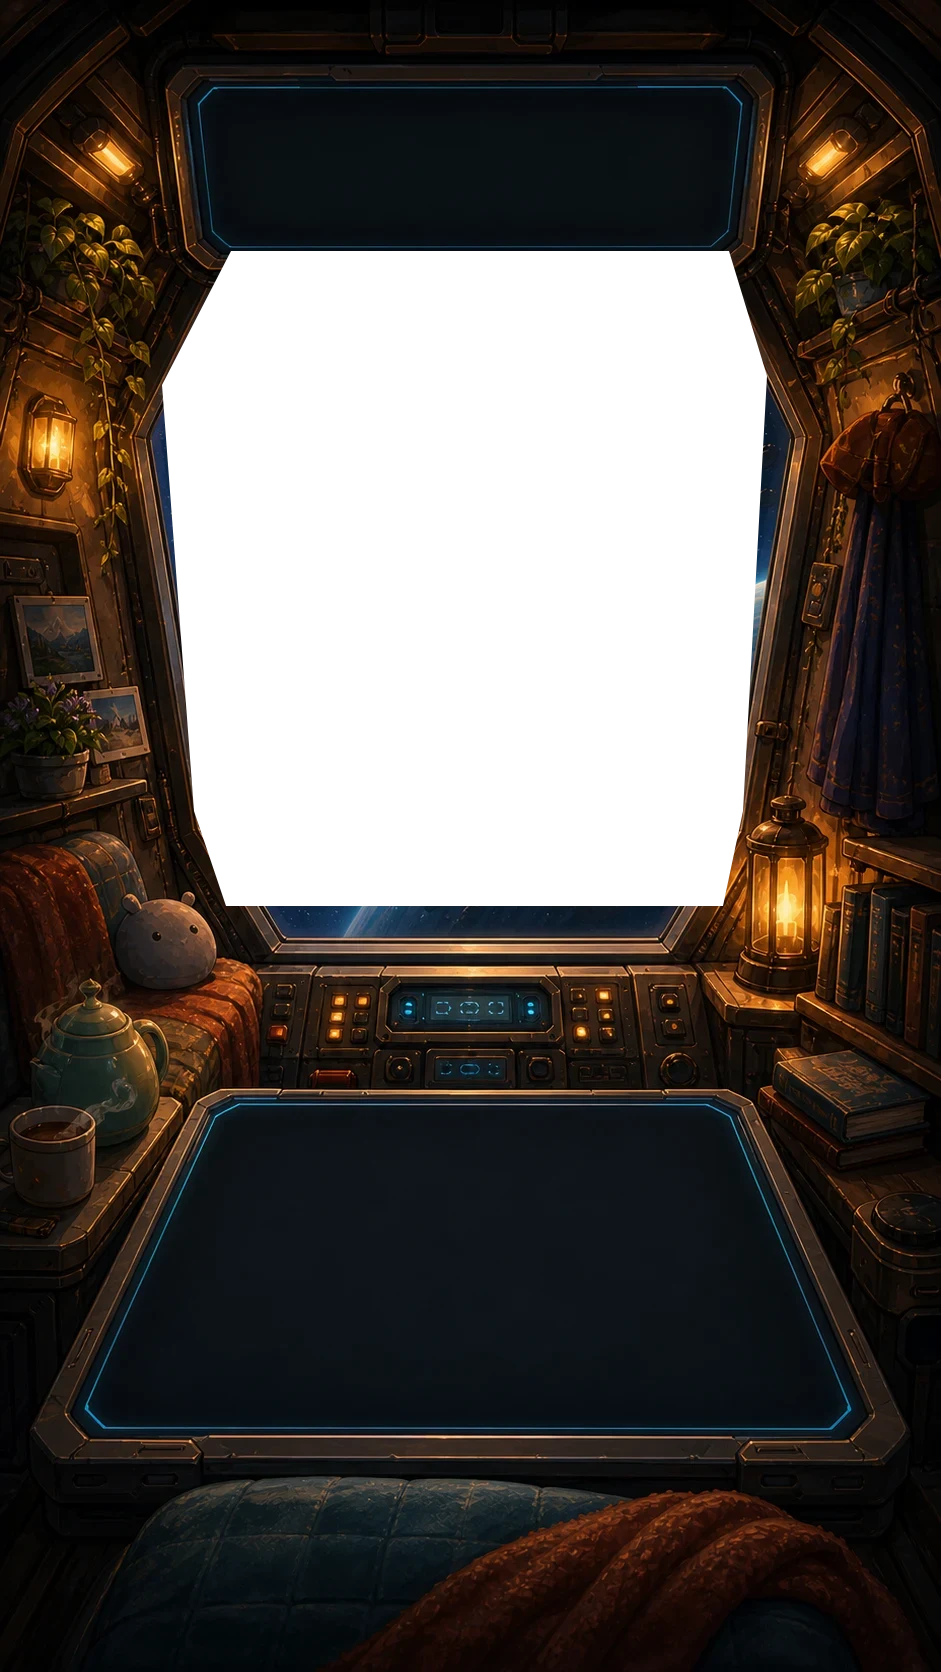
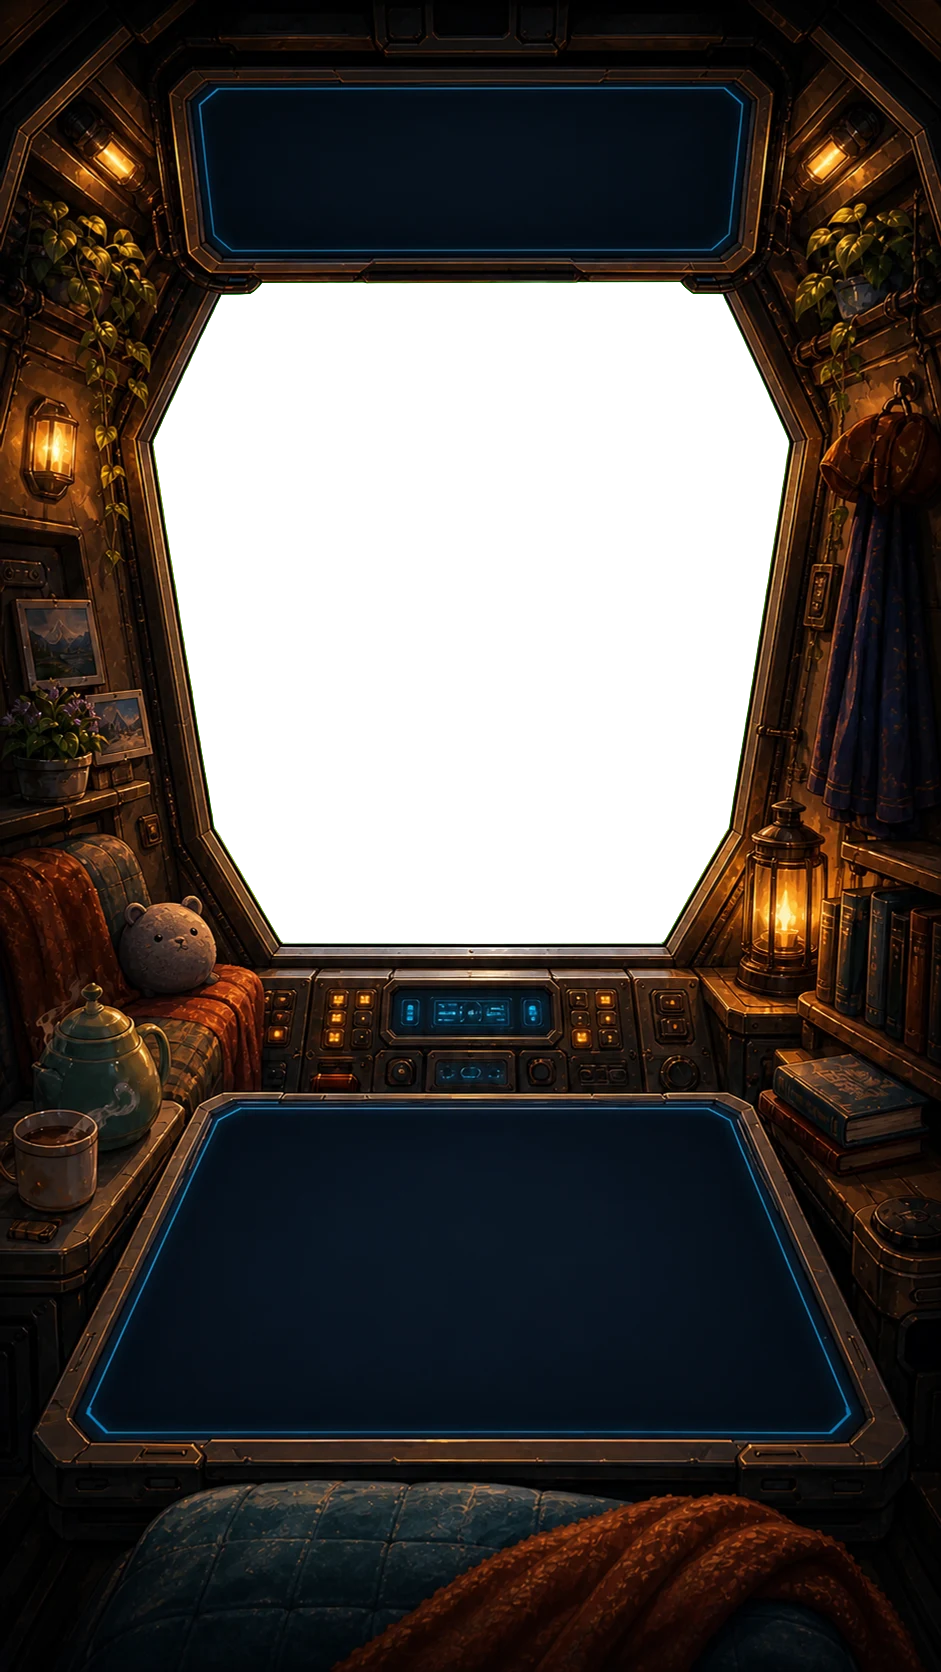
regenerated cockpit to fix issues

Changed region(s): [[0.0, 0.0311, 1.0, 0.9641], [0.8937, 0.7153, 0.9862, 0.7775], [0.0, 0.0, 0.0308, 0.0311]]

diff --git a/src/styles.css b/src/styles.css
@@ -1787,23 +1787,10 @@ body {
 }
 
 .scene-cockpit-window-hotspot {
-  left: 17.2%;
-  top: 15%;
-  width: 64.3%;
-  height: 39.2%;
+  inset: 0;
   z-index: 1;
   overflow: hidden;
   opacity: 0;
-  clip-path: polygon(
-    11.4% 0%,
-    93.8% 0%,
-    100% 19.1%,
-    96.1% 85.5%,
-    93% 100%,
-    10.6% 100%,
-    5.3% 85.5%,
-    0% 20.4%
-  );
   pointer-events: none;
   transition:
     opacity 520ms ease,
@@ -1828,10 +1815,12 @@ body {
 }
 
 .cockpit-window-view {
-  position: relative;
+  position: absolute;
+  left: 16.25%;
+  top: 16.82%;
   overflow: hidden;
-  width: 100%;
-  height: 100%;
+  width: 67.6%;
+  height: 39.6%;
   background:
     linear-gradient(180deg, rgba(7, 13, 27, 0.28), rgba(7, 13, 27, 0.1) 44%, rgba(7, 13, 27, 0.24)),
     radial-gradient(circle at 62% 55%, transparent 0 16%, rgba(3, 8, 16, 0.18) 44%, rgba(3, 8, 16, 0.58) 78%),

diff --git a/public/images/README_IMAGES.md b/public/images/README_IMAGES.md
@@ -27,4 +27,4 @@ Recommended usage:
 
 A manifest is included as `image-manifest.json`, and a TypeScript helper is included as `image-assets.ts`. PNG fallbacks are intentionally omitted because the app targets modern browsers.
 
-The cockpit cutout is generated from `source-images/view_cockpit_forward_source.webp` with `npm run assets:cockpit-window`.
+The cockpit cutout is generated from `source-images/view_cockpit_forward_source.png` with `npm run assets:cockpit-window`.